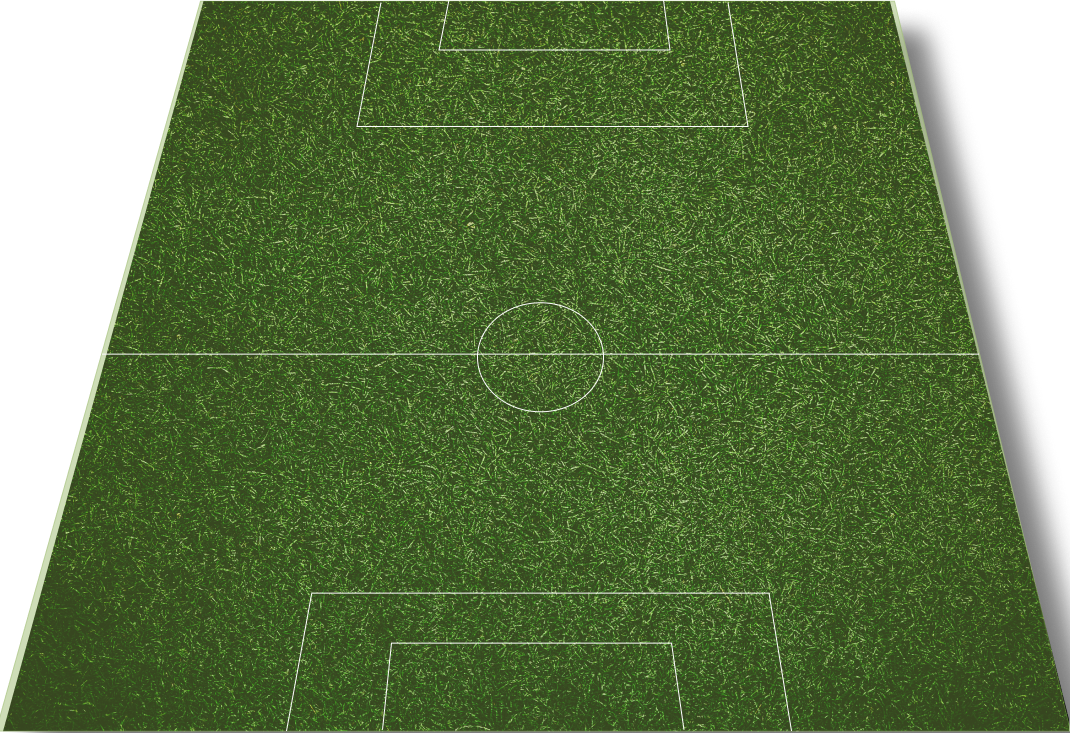
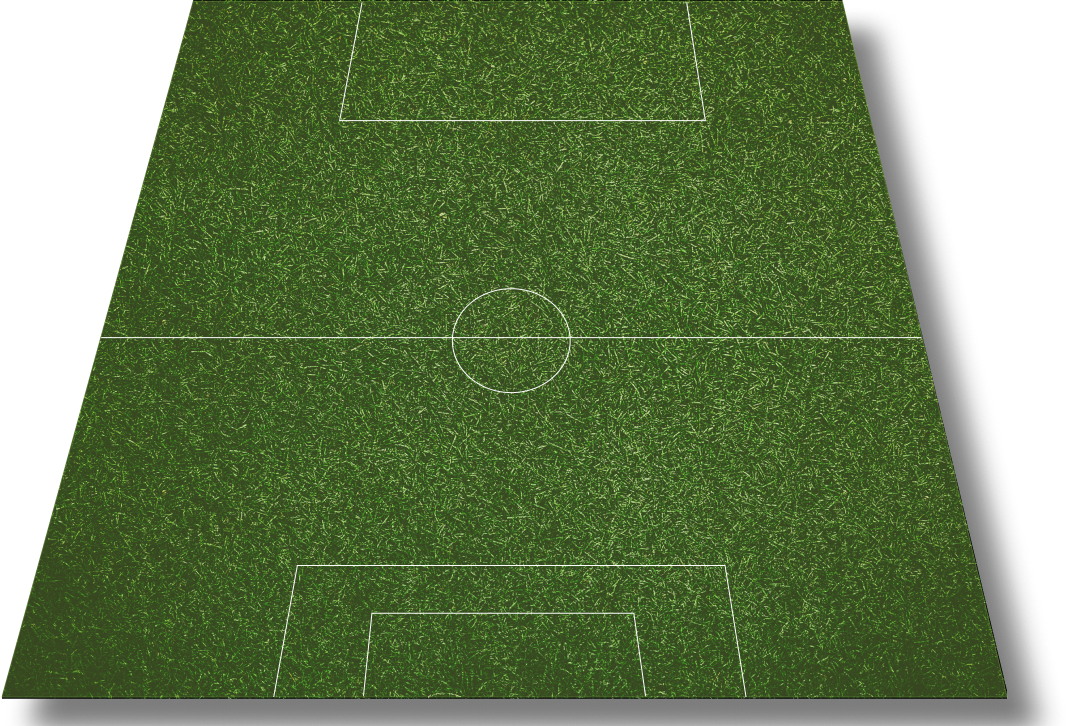
Correccion altura cancha (faltan posiciones)

diff --git a/src/components/posiciones/Posiciones.scss b/src/components/posiciones/Posiciones.scss
@@ -2,7 +2,15 @@
     position: relative;
     display: flex;
     align-items: flex-end;
-    margin: 0 auto;
+    margin: 2rem auto;
+    
+    
+    /*Tablet*/
+    @media only screen and (max-width: 768px)  {
+       margin: 10rem auto ;
+    }
+
+
 
     a{
         text-decoration: none;
@@ -11,9 +19,7 @@
 
     .contenedor-cancha{
     
-        position: relative;
-        top: 2rem;
-    
+        position: relative;    
         img{
             width: 58rem;
             height: 38rem;
@@ -116,56 +122,56 @@
 
     .contenedor-arq{
         position: absolute;
-        left:398px;
-        top: 510px;
+        left:375px;
+        top: 460px;
 
         /*Desktop 1024*/
         @media only screen and (min-width:769px) and (max-width: 1024px){
-            left:303px;
-            top: 480px;
+            left:290px;
+            top: 430px;
         }
 
         /*Tablet*/
         @media only screen and (min-width:526px) and (max-width: 768px)  {
             left:175px;
-            top: 460px;
+            top: 428px;
         }
 
         /*Mobile*/
         @media only screen and (max-width: 525px)  {
             left:75px;
-            top: 390px;
+            top: 358px;
         }
     }
 
     .contenedor-li{
         position: absolute;
-        left:108px;
-        top: 320px;
+        left:110px;
+        top: 300px;
 
         /*Desktop 1024*/
         @media only screen and (min-width:769px) and (max-width: 1024px){
             left:38px;
-            top: 320px;
+            top: 258px;
         }
 
         /*Tablet*/
         @media only screen and (min-width:526px) and (max-width: 768px)  {
             left:5px;
-            top: 340px;
+            top: 278px;
         }
 
         /*Mobile*/
         @media only screen and (max-width: 525px)  {
             left:-20px;
-            top: 270px;
+            top: 230px;
         }
     }
 
     .contenedor-dfc{
         position: absolute;
-        left:398px;
-        top: 398px;
+        left:375px;
+        top: 340px;
 
         /*Desktop 1024*/
         @media only screen and (min-width:769px) and (max-width: 1024px){
@@ -188,8 +194,8 @@
 
     .contenedor-ld{
         position: absolute;
-        left:688px;
-        top: 320px;
+        left:650px;
+        top: 300px;
 
         /*Desktop 1024*/
         @media only screen and (min-width:769px) and (max-width: 1024px){
@@ -212,8 +218,8 @@
 
     .contenedor-mcd{
         position: absolute;
-        left:398px;
-        top: 250px;
+        left:375px;
+        top: 220px;
 
         /*Desktop 1024*/
         @media only screen and (min-width:769px) and (max-width: 1024px){
@@ -236,8 +242,8 @@
 
     .contenedor-mi{
         position: absolute;
-        left:148px;
-        top: 180px;
+        left:140px;
+        top: 140px;
 
         /*Desktop 1024*/
         @media only screen and (min-width:769px) and (max-width: 1024px){
@@ -260,8 +266,8 @@
 
     .contenedor-md{
         position: absolute;
-        left:658px;
-        top: 180px;
+        left:620px;
+        top: 140px;
 
         /*Desktop 1024*/
         @media only screen and (min-width:769px) and (max-width: 1024px){
@@ -284,8 +290,8 @@
 
     .contenedor-mco{
         position: absolute;
-        left:398px;
-        top: 130px;
+        left:375px;
+        top: 98px;
 
         /*Desktop 1024*/
         @media only screen and (min-width:769px) and (max-width: 1024px){
@@ -308,8 +314,8 @@
 
     .contenedor-ei{
         position: absolute;
-        left:158px;
-        top:20px;
+        left:180px;
+        top:10px;
 
         /*Desktop 1024*/
         @media only screen and (min-width:769px) and (max-width: 1024px){
@@ -330,8 +336,8 @@
 
     .contenedor-dc{
         position: absolute;
-        left:398px;
-        top:5px;
+        left:375px;
+        top:-30px;
 
         /*Desktop 1024*/
         @media only screen and (min-width:769px) and (max-width: 1024px){
@@ -352,8 +358,8 @@
 
     .contenedor-ed{
         position: absolute;
-        left:638px;
-        top:20px;
+        left:590px;
+        top:10px;
 
         /*Desktop 1024*/
         @media only screen and (min-width:769px) and (max-width: 1024px){

diff --git a/src/components/Modal.jsx b/src/components/Modal.jsx
@@ -1,0 +1,54 @@
+import React, { useState } from 'react';
+import Button from 'react-bootstrap/Button';
+import Form from 'react-bootstrap/Form';
+import Modal from 'react-bootstrap/Modal';
+
+function Example() {
+  const [show, setShow] = useState(false);
+
+  const handleClose = () => setShow(false);
+  const handleShow = () => setShow(true);
+
+  return (
+    <>
+      <Button variant="primary" onClick={handleShow}>
+        Launch demo modal
+      </Button>
+
+      <Modal show={show} onHide={handleClose}>
+        <Modal.Header closeButton>
+          <Modal.Title>Modal heading</Modal.Title>
+        </Modal.Header>
+        <Modal.Body>
+          <Form>
+            <Form.Group className="mb-3" controlId="exampleForm.ControlInput1">
+              <Form.Label>Email address</Form.Label>
+              <Form.Control
+                type="email"
+                placeholder="name@example.com"
+                autoFocus
+              />
+            </Form.Group>
+            <Form.Group
+              className="mb-3"
+              controlId="exampleForm.ControlTextarea1"
+            >
+              <Form.Label>Example textarea</Form.Label>
+              <Form.Control as="textarea" rows={3} />
+            </Form.Group>
+          </Form>
+        </Modal.Body>
+        <Modal.Footer>
+          <Button variant="secondary" onClick={handleClose}>
+            Close
+          </Button>
+          <Button variant="primary" onClick={handleClose}>
+            Save Changes
+          </Button>
+        </Modal.Footer>
+      </Modal>
+    </>
+  );
+}
+
+export default Example;

diff --git a/src/components/home/Home.scss b/src/components/home/Home.scss
@@ -6,18 +6,18 @@
         background-repeat: no-repeat;
         background-size: cover;
         background-position: bottom;
-        height: 822px;
+        min-height: 822px;
     
         /*Tablet*/
         @media only screen and (min-width:426px) and (max-width: 768px)  {
-            height: 100vh;
+            min-height: 100vh;
             display: flex;
             justify-content: space-around;
         }
     
         /*Mobile*/
         @media only screen and (max-width: 425px)  {
-            height: 100vh;
+            min-height: 100vh;
         }
     
         .contenedor-imagenes{
@@ -64,14 +64,14 @@
     
         $alturaSeccion:calc(100vh - 5rem);
     
-        height:822px;
+        min-height:822px;
     
         display:flex;
         flex-direction: column;
     
         /*Mobile & Tablet*/
         @media only screen and (max-width: 768px)  {
-           height: 100vh;
+           min-height: 100vh;
         }
     
         h3{

diff --git a/src/components/home/Home.jsx b/src/components/home/Home.jsx
@@ -87,6 +87,8 @@ const Home = () => {
                 <TituloSeccion text="Iniciar juego por jugador" className="contenedor-titulo contenedor-titulo-jugador"/>
 
                 <ListadoBotinesJugador></ListadoBotinesJugador>
+
+                
             </section>
             
         </Container>
